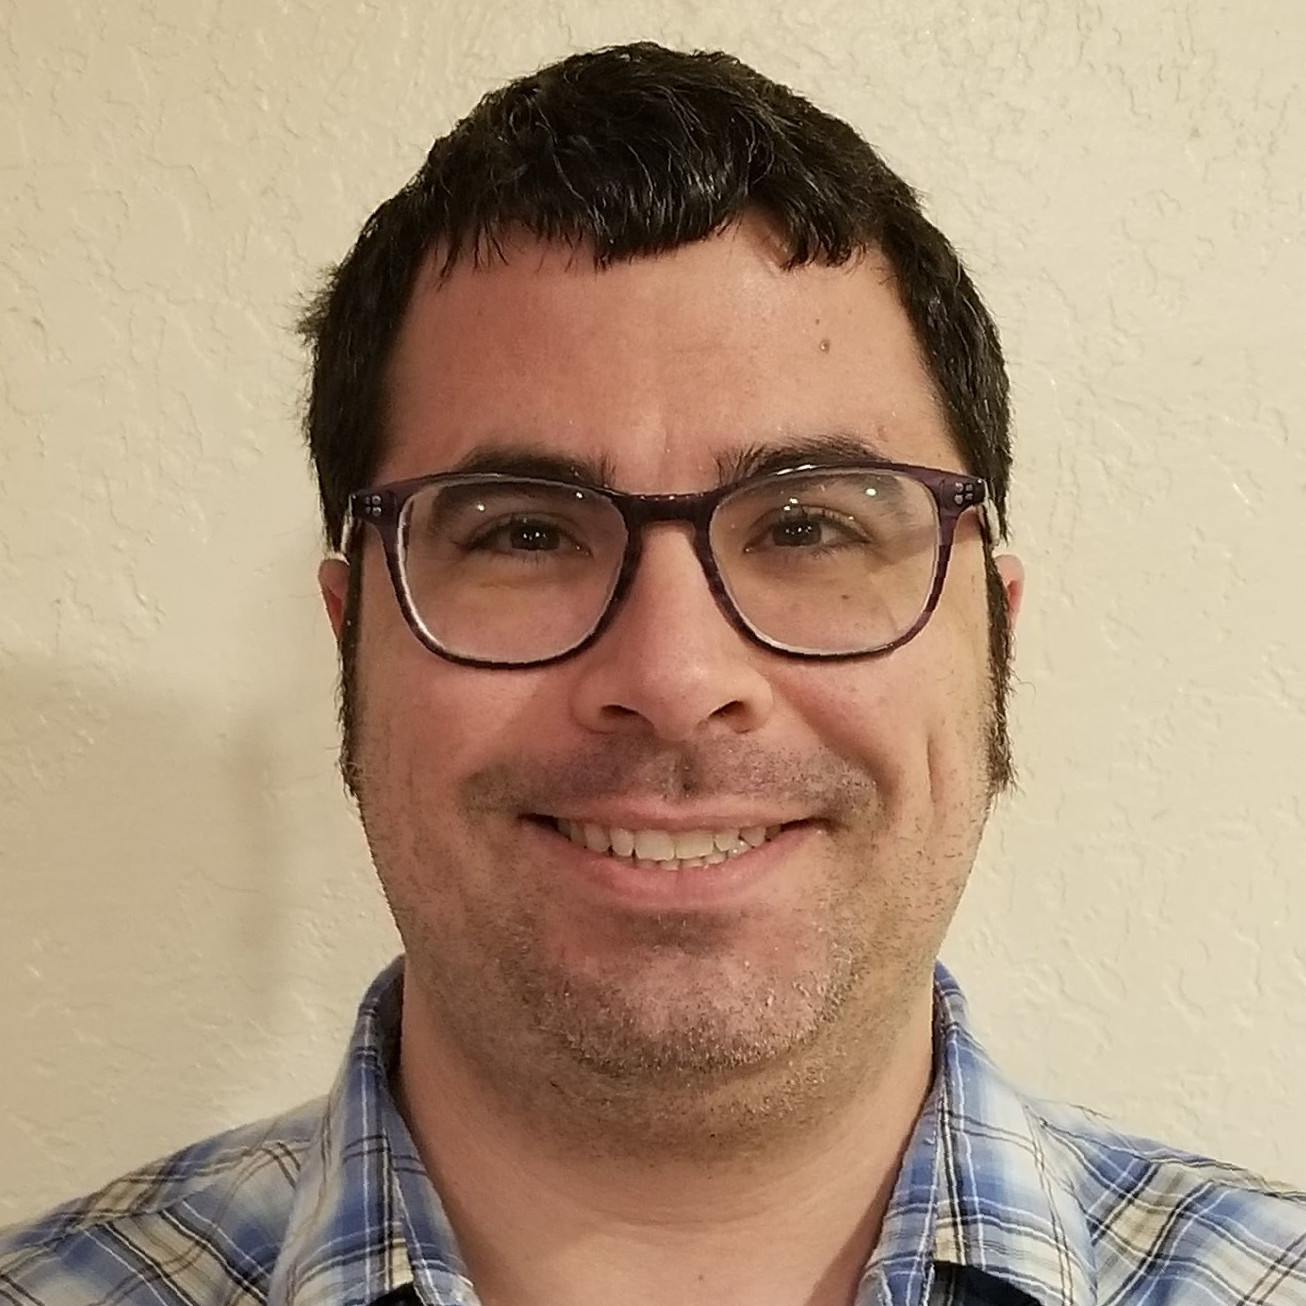
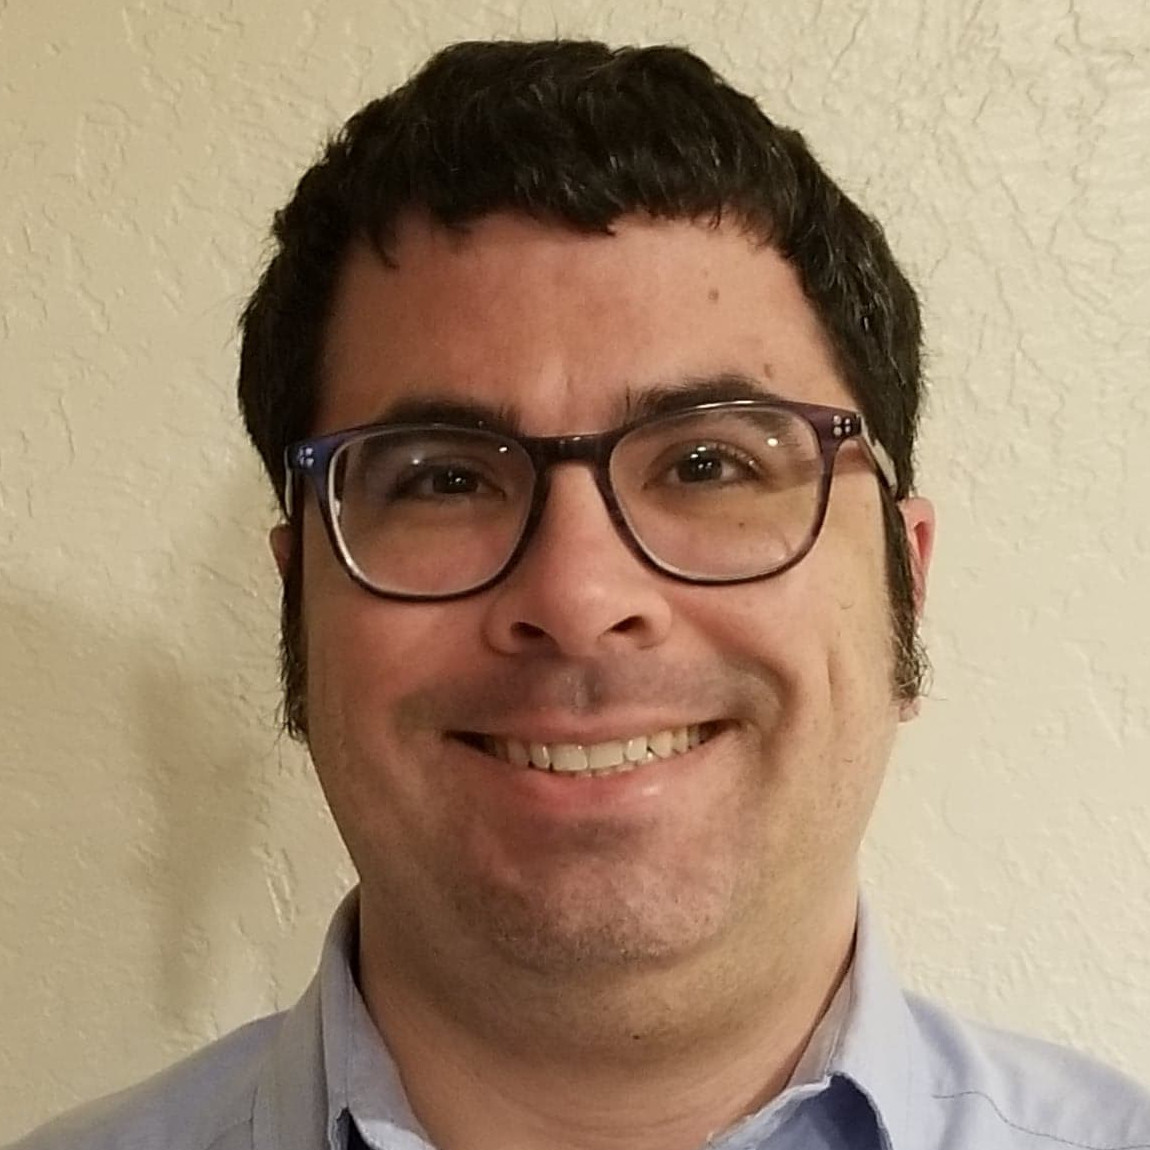
new pic and readme

diff --git a/README.md b/README.md
@@ -1,2 +1,75 @@
-# ProfessionalPortfolio
-portfolio page
+# Steven Day Portfolio
+
+> Modern Minimalist Professional Portfolio Page
+
+**Layout**
+
+![portfolio layout](/readMeGifs/portfolio1.gif)
+
+---
+
+## Usage
+
+> clone to directory
+
+```shell
+
+git clone git@github.com:stevenrobday/stevenrobday.github.io.git
+
+```
+
+<a href="https://stevenrobday.github.io/" target="_blank">View page here</a>
+
+---
+
+## Features
+
+**Modals**
+
+![portfolio layout](/readMeGifs/portfolio2.gif)
+
+**Responsive**
+
+> Achieved with CSS Variables 
+
+![portfolio layout](/readMeGifs/portfolio3.gif)
+
+The following js makes the gifs and pngs "super modal" display correctly on any resolution.
+
+```javascript
+
+var superModalWidth = $superModal.width();
+var superModalHeight = $superModal.height()
+var modalRatio = superModalWidth / superModalHeight;
+
+// for smaller super modal ratio, stretch image container to the width of the super modal and calculate height based on ratio
+if(modalRatio < imgRatio) {
+  var tmpWidth = superModalWidth; 
+  var tmpHeight = superModalWidth / imgWidth * imgHeight; 
+}
+
+// for equal or larger modal ratio, stretch image container to the height of the super modal and calculate width
+else {
+  var tmpWidth = superModalHeight / imgHeight * imgWidth; 
+  var tmpHeight = superModalHeight; 
+}
+
+$superModalImgWrap.height(tmpHeight);
+$superModalImgWrap.width(tmpWidth);
+
+```
+**Contact Form**
+
+> Achieved with AJAX call to PHP file stored on my web hosting (included in repo)
+
+![portfolio layout](/readMeGifs/portfolio4.gif)
+
+---
+
+## Built With
+
+- HTML5
+- CSS3
+- JavaScript
+- jQuery
+- PHP
